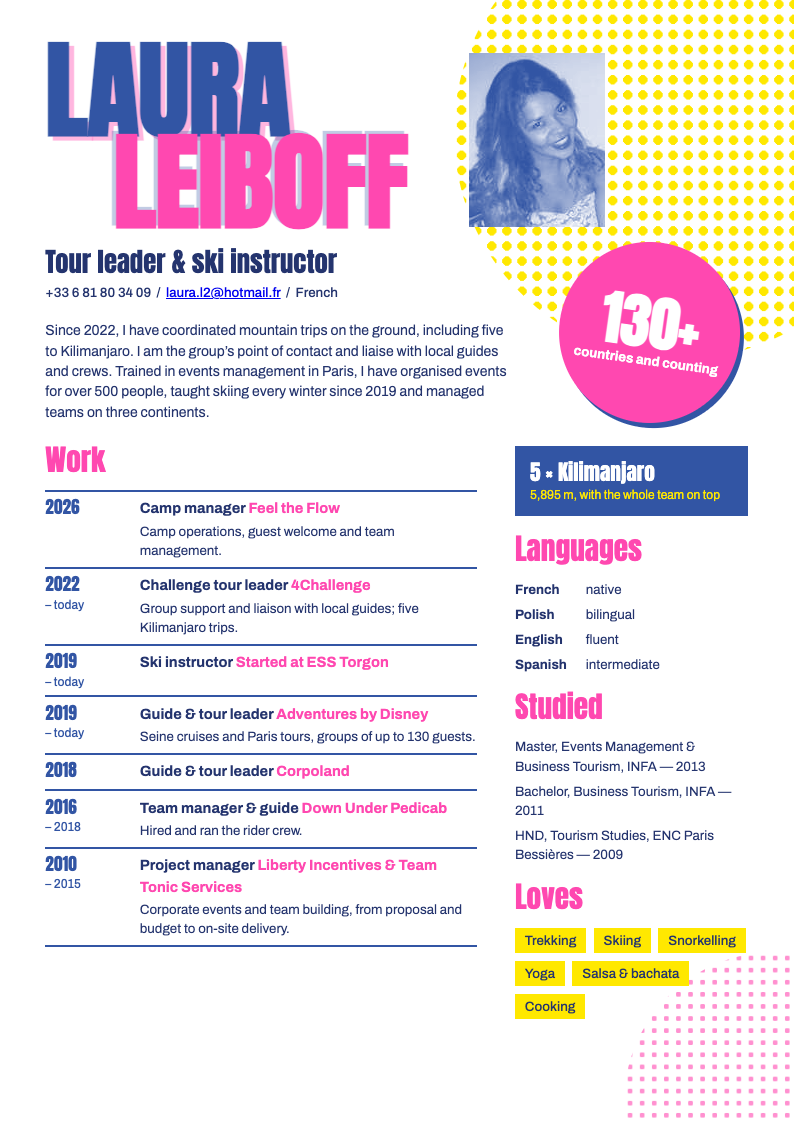
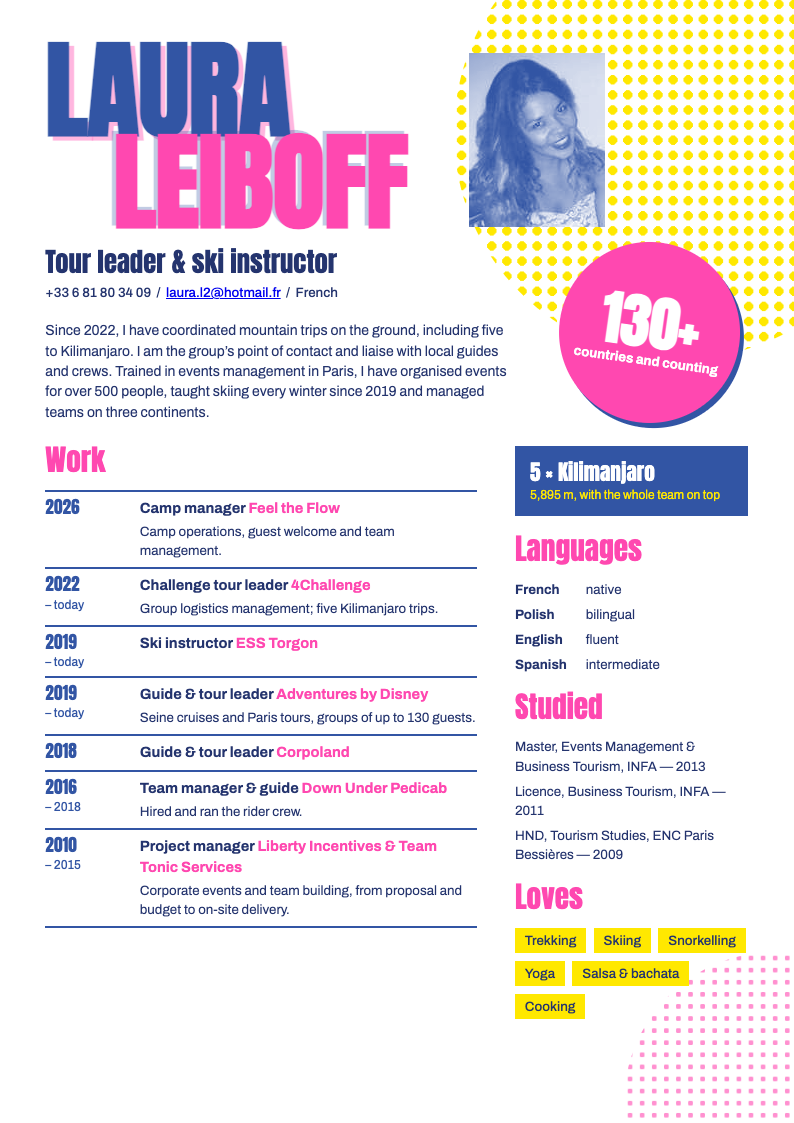
Apply Laura's confirmed career wording and qualification corrections

Changed region(s): [[0.0605, 0.5298, 0.6045, 0.8415], [0.665, 0.6857, 0.9068, 0.7168]]

diff --git a/content.js b/content.js
@@ -22,7 +22,7 @@ window.CV_CONTENT = {
     interests: ['Trekking', 'Skiing', 'Snorkelling', 'Yoga', 'Salsa & bachata', 'Cooking'],
     education: [
       ['Master, Events Management & Business Tourism', 'INFA', '2013'],
-      ['Bachelor, Business Tourism', 'INFA', '2011'],
+      ['Licence, Business Tourism', 'INFA', '2011'],
       ['HND, Tourism Studies', 'ENC Paris Bessières', '2009']
     ],
     // Newest first. `to`: 'now' for ongoing, omitted for a single year.
@@ -30,8 +30,8 @@ window.CV_CONTENT = {
     // Leave `description` empty when the title says it all; every design skips empty ones.
     jobs: [
       {from:'2026', title:'Camp manager', company:'Feel the Flow', place:'', kind:'manage', description:'Camp operations, guest welcome and team management.'},
-      {from:'2022', to:'now', title:'Challenge tour leader', company:'4Challenge', place:'Mountain expeditions', kind:'expedition', description:'Group support and liaison with local guides; five Kilimanjaro trips.'},
-      {from:'2019', to:'now', title:'Ski instructor', company:'Started at ESS Torgon', place:'Switzerland', kind:'ski', description:''},
+      {from:'2022', to:'now', title:'Challenge tour leader', company:'4Challenge', place:'Mountain expeditions', kind:'expedition', description:'Group logistics management; five Kilimanjaro trips.'},
+      {from:'2019', to:'now', title:'Ski instructor', company:'ESS Torgon', place:'Switzerland', kind:'ski', description:''},
       {from:'2019', to:'now', title:'Guide & tour leader', company:'Adventures by Disney', place:'Paris & the Seine', kind:'guide', description:'Seine cruises and Paris tours, groups of up to 130 guests.'},
       {from:'2018', title:'Guide & tour leader', company:'Corpoland', place:'Gdańsk, Poland', kind:'guide', description:''},
       {from:'2016', to:'2018', title:'Team manager & guide', company:'Down Under Pedicab', place:'Darwin, Australia', kind:'manage', description:'Hired and ran the rider crew.'},
@@ -85,17 +85,17 @@ window.CV_CONTENT = {
     interests: ['Randonnée', 'Ski', 'Snorkeling', 'Yoga', 'Salsa & bachata', 'Cuisine'],
     education: [
       ['Master en management événementiel et tourisme d’affaires', 'INFA', '2013'],
-      ['Bachelor en tourisme d’affaires', 'INFA', '2011'],
+      ['Licence en tourisme d’affaires', 'INFA', '2011'],
       ['BTS Tourisme', 'ENC Paris Bessières', '2009']
     ],
     jobs: [
       {from:'2026', title:'Responsable de camp', company:'Feel the Flow', place:'', kind:'manage', description:'Gestion du camp, accueil des participants et encadrement de l’équipe.'},
-      {from:'2022', to:'now', title:'Tour leader', company:'4Challenge', place:'Expéditions en montagne', kind:'expedition', description:'Suivi des groupes et liaison avec les guides locaux ; cinq voyages au Kilimandjaro.'},
-      {from:'2019', to:'now', title:'Monitrice de ski', company:'Débuts à ESS Torgon', place:'Suisse', kind:'ski', description:''},
+      {from:'2022', to:'now', title:'Tour leader', company:'4Challenge', place:'Expéditions en montagne', kind:'expedition', description:'Gestion de la logistique du groupe ; cinq voyages au Kilimandjaro.'},
+      {from:'2019', to:'now', title:'Monitrice de ski', company:'ESS Torgon', place:'Suisse', kind:'ski', description:''},
       {from:'2019', to:'now', title:'Guide & accompagnatrice', company:'Adventures by Disney', place:'Paris & la Seine', kind:'guide', description:'Croisières sur la Seine et visites de Paris, groupes jusqu’à 130 personnes.'},
       {from:'2018', title:'Guide & accompagnatrice', company:'Corpoland', place:'Gdańsk, Pologne', kind:'guide', description:''},
       {from:'2016', to:'2018', title:'Responsable d\'équipe & guide', company:'Down Under Pedicab', place:'Darwin, Australie', kind:'manage', description:'Recrutement et encadrement de l\'équipe.'},
-      {from:'2010', to:'2015', title:'Cheffe de projet', company:'Liberty Incentives & Team Tonic Services', place:'Paris, France', kind:'manage', description:'Événements d’entreprise et team building : conception, budgets et coordination sur place.'}
+      {from:'2010', to:'2015', title:'Chef de projets', company:'Liberty Incentives & Team Tonic Services', place:'Paris, France', kind:'manage', description:'Événements d’entreprise et team building : conception, budgets et coordination sur place.'}
     ],
     labels: {
       now: 'aujourd\'hui', switchTo: 'English', allDesigns: '← Tous les designs', print: 'Imprimer / PDF',
